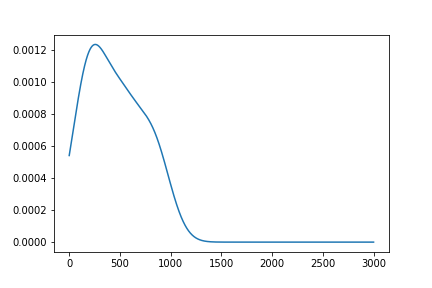
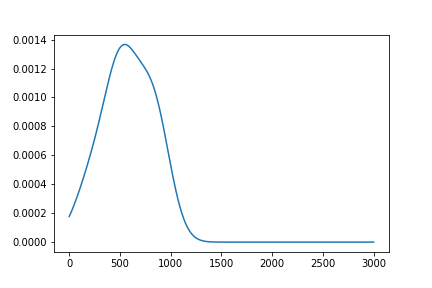
Question 3.4

diff --git a/ps3/ps3.py b/ps3/ps3.py
@@ -121,7 +121,7 @@ d['nb'] = np.log(d['bid']) - d.loc[:, vars[1:]] @ first_stage.params[0:7]
 
 # 3.2 Step 2
 np.mean(d['nb'])
-s
+
 
 # 3.3 Step 3
 # target winning bids
@@ -138,7 +138,6 @@ b_nr = np.array(np.exp(d.loc[(d['bidder'] == '999') & (d['win'] == True), 'nb'])
 grid = np.linspace(0, 3000, 10000)
 
 from scipy import stats
-
 
 
 k = stats.gaussian_kde(b_mr, bw_method = 'silverman')
@@ -174,7 +173,6 @@ plt.savefig('figures/hr.pdf')
 plt.plot(grid, hr_cdf)
 plt.savefig('figures/hr_cdf.pdf')
 
-
 # 3.4 Step 4
 
 # 1. bid function for each bidder
@@ -183,8 +181,49 @@ def gj(df,j):
     return stats.gaussian_kde(x, bw_method = 'silverman')
 
 # illustration
-plt.plot(grid, gj(d,7).evaluate(grid))
+plt.plot(grid, gj(d,1).evaluate(grid))
 plt.savefig('ps3/figs/nonpara-bid.png')
 plt.close()
 
 # 2. participation probability
+n = len(d['lotdate'].unique())
+α = np.array([len(d.loc[d['bidder'] == str(j)]) for j in np.arange(1,12,1)])/n
+
+d.groupby("bidder")["lotdate"].nunique()
+# 3. Pdf and Cdf
+# note kernel density requires more than two points so remove bidders 8, 10, 11
+def gnotj(df,α,j,grid):
+    norm = np.sum(α)-α[j-1]-α[7]-α[9]-α[10]
+    gnotj = np.zeros(np.shape(grid))
+    for i in np.arange(1,12,1):
+        if i not in [j,8,10,11]:
+            gnotj += (α[i-1]/norm)*gj(df,i).evaluate(grid)
+    return gnotj
+
+def Gnotj(df,α,j,grid):
+    g = gnotj(df,α,j,grid)
+    return np.cumsum(g)/np.sum(g)
+
+# illustration
+plt.plot(grid,gnotj(d,α,1,grid))
+plt.savefig('ps3/figs/pdfgdemo.png')
+plt.close()
+
+plt.plot(grid,Gnotj(d,α,1,grid))
+plt.savefig('ps3/figs/cdfGdemo.png')
+plt.close()
+
+
+# 4. Value function
+def val(df,α,j,grid,hr_cdf,hr):
+    H = hr_cdf
+    h = hr
+    g = gnotj(df,α,j,grid)
+    G = Gnotj(df,α,j,grid)
+    num = .5*H*(1-G)
+    den = h*G +H*g
+    return grid - (num/den)
+
+vmod = val(d,α,1,grid,hr_cdf,hr)
+plt.plot(vmod[700:4000],grid[700:4000])
+plt.plot(grid[700:4000],grid[700:4000])
